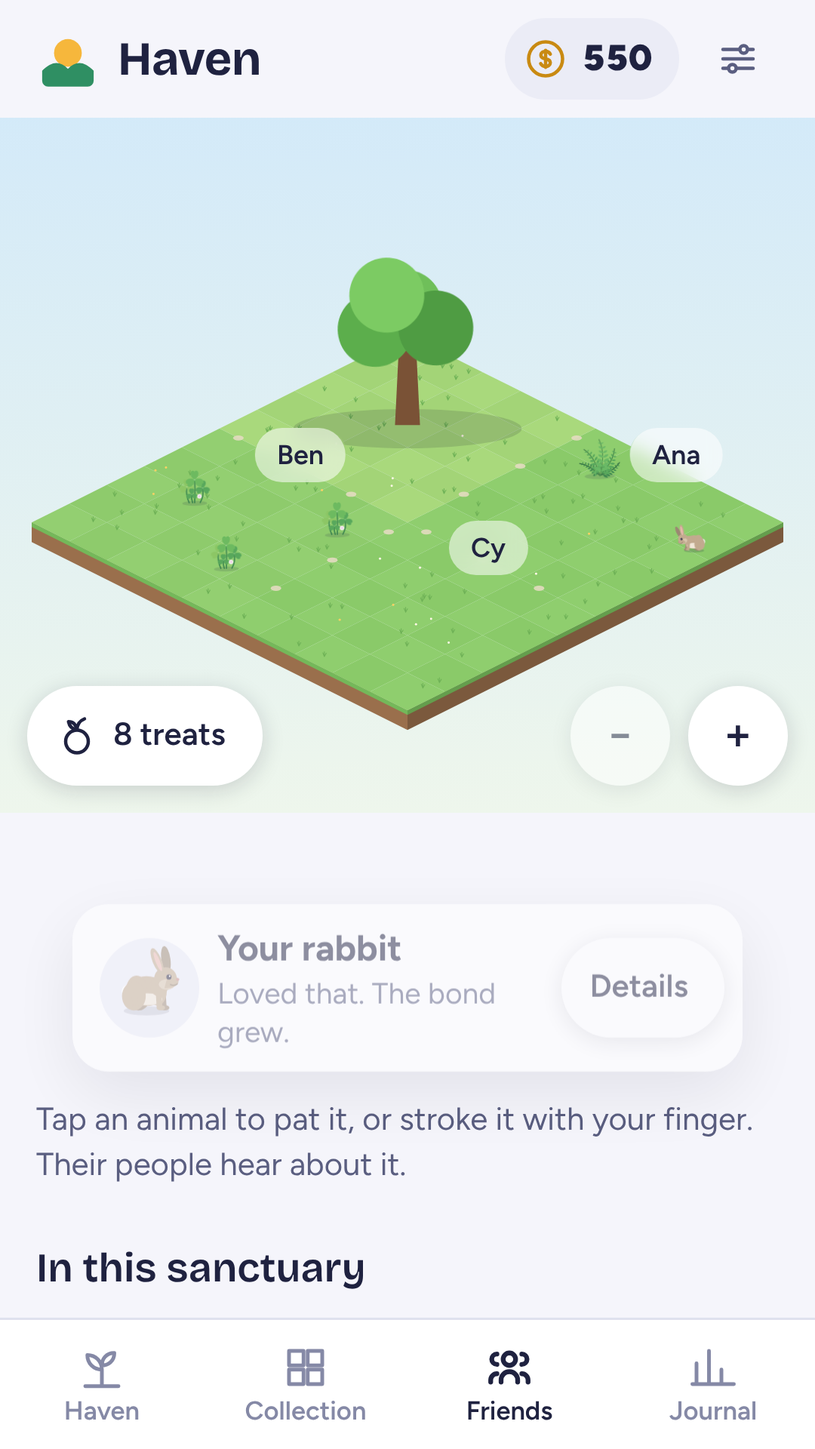
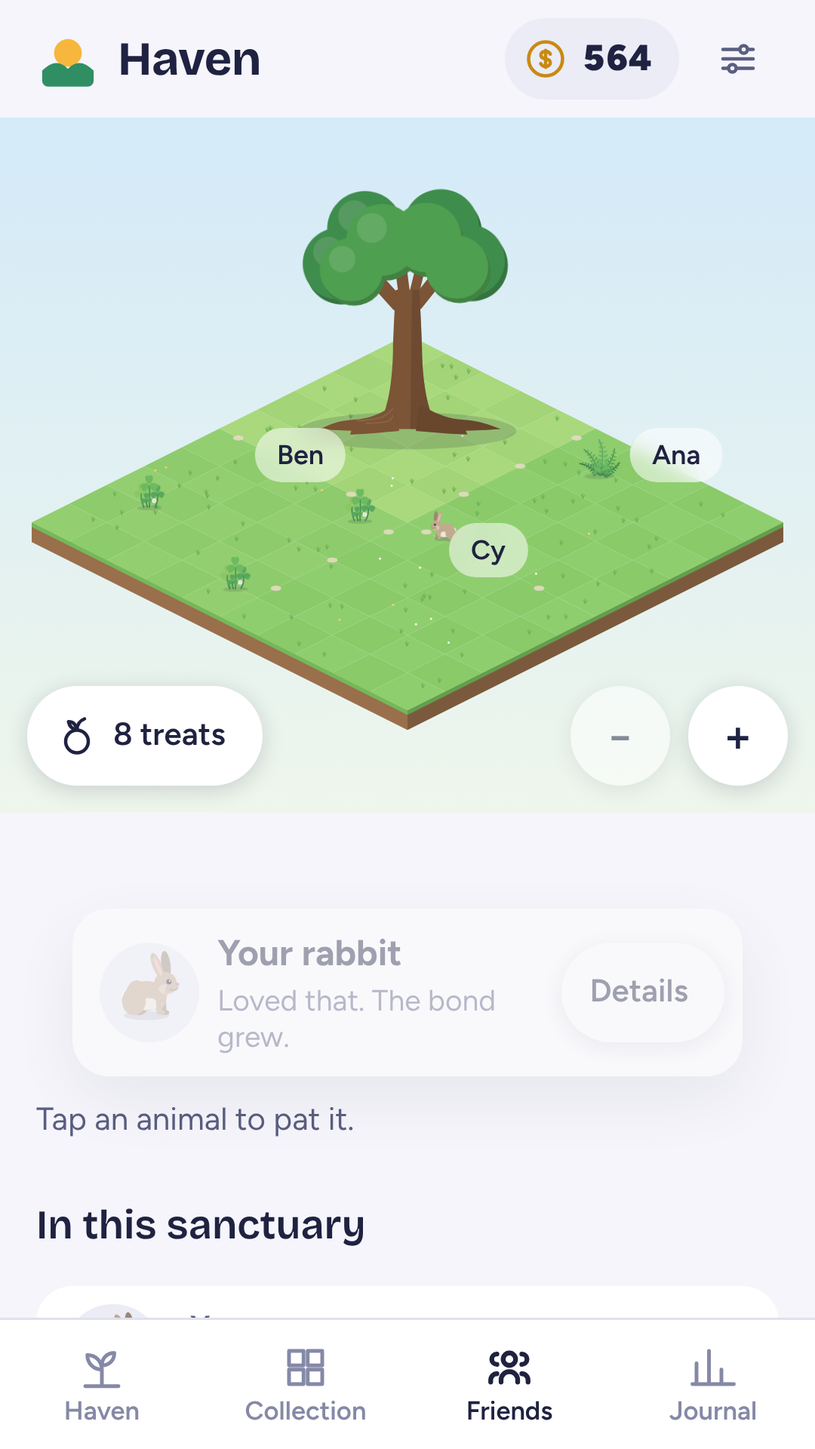
A grander great tree, closed source, docs
- The great tree is drawn anew: a trunk that flares into roots running over the ground, boughs,
  a three-layer shaded crown, a knot hole and mushrooms when old, blossom, drifting petals and
  lanterns in bloom; a slender sapling before that
- Closed source: all-rights-reserved LICENSE, private package, a copyright line on the bundle,
  no source link in Settings, the privacy policy no longer says open source
- PLAY.md: what changes on GitHub when the repository goes private, and the choice to make first
- README, PRODUCT, ARCHITECTURE and VALIDATION describe finished campfires, the strict fire,
  the chimes; Google Play screenshots retaken

Claude-Session: https://claude.ai/code/session_01U2vW6AhbJutTokDW5NJwig

diff --git a/src/scene.js b/src/scene.js
@@ -2,6 +2,7 @@
 // Both are SVG text built from data, so they can be drawn for you, for a friend, or for a test.
 import { traitsOf } from './world.js';
 import { drawing, tone } from './art.js';
+import { n, E, C, P, L } from './shapes.js';
 import { speciesById, artOf } from './catalog.js';
 import { escapeHTML } from './core.js';
 
@@ -257,17 +258,67 @@ export const treeStageName = stage => TREE_STAGES[Math.max(0, Math.min(5, stage 
 /** The great tree at one of its six stages, from a seed to full bloom. */
 export function greatTreeSVG(stage = 0) {
   stage = Math.max(0, Math.min(5, stage | 0));
-  const leaf = ['#6fbf5a', '#5cae4c', '#4f9c43', '#7ccb63'], ground = '<ellipse cx="100" cy="226" rx="64" ry="11" fill="#14152b" opacity=".14"/>';
-  if (stage === 0) return `<svg viewBox="0 0 200 240" aria-hidden="true">${ground}<ellipse cx="100" cy="222" rx="26" ry="7" fill="#9c6b44"/><ellipse cx="100" cy="219" rx="9" ry="5" fill="#c58b55"/><path d="M100 218c0-6 2-10 6-12" stroke="#5cae4c" stroke-width="3" fill="none" stroke-linecap="round"/></svg>`;
-  if (stage === 1) return `<svg viewBox="0 0 200 240" aria-hidden="true">${ground}<ellipse cx="100" cy="222" rx="24" ry="6" fill="#9c6b44"/><path d="M100 222V186" stroke="#7a5236" stroke-width="5" stroke-linecap="round"/><path d="M100 196c-14-2-22-10-24-20 13 0 22 7 24 20Z" fill="${leaf[0]}"/><path d="M100 188c13-4 19-13 20-24-12 2-19 10-20 24Z" fill="${leaf[1]}"/></svg>`;
-  // From a sapling on: a trunk that thickens and a crown of leaf clusters that widens with each stage.
-  const k = [0, 0, 0.5, 0.7, 0.88, 1][stage], trunkTop = 222 - 150 * k, girth = 6 + 16 * k;
-  const crown = [[0, -38], [-34, -14], [34, -14], [-20, -52], [22, -54], [0, -70], [-46, -40], [46, -40], [0, -8]];
-  const blobs = crown.slice(0, stage === 2 ? 4 : stage === 3 ? 6 : 9).map(([dx, dy], i) => `<circle cx="${(100 + dx * k).toFixed(1)}" cy="${(trunkTop + 30 + dy * k).toFixed(1)}" r="${(30 * k + 6).toFixed(1)}" fill="${leaf[i % 4]}"/>`).join('');
-  const roots = k > 0.6 ? `<path d="M${100 - girth} 222c-10 2-18 4-24 3M${100 + girth} 222c10 2 18 4 24 3" stroke="#6b4630" stroke-width="${(girth / 2.4).toFixed(1)}" fill="none" stroke-linecap="round"/>` : '';
-  const bloom = stage === 5 ? Array.from({ length: 22 }, (_, i) => { const a = i * 2.4, r = 14 + (i * 37) % 56; return `<circle cx="${(100 + Math.cos(a) * r * k * 1.15).toFixed(1)}" cy="${(trunkTop + 18 + Math.sin(a) * r * k * 0.8).toFixed(1)}" r="${i % 3 ? 4.2 : 5.4}" fill="${i % 4 ? '#f7a8c4' : '#ffd36a'}" stroke="#fff" stroke-width="1"/>`; }).join('') : '';
-  const lanterns = stage === 5 ? `<g class="lanterns"><circle cx="${100 - 40 * k}" cy="${trunkTop + 62}" r="5" fill="#ffd36a"/><circle cx="${100 + 44 * k}" cy="${trunkTop + 58}" r="5" fill="#ffd36a"/></g>` : '';
-  return `<svg viewBox="0 0 200 240" aria-hidden="true">${ground}${roots}<path d="M${100 - girth / 2} 224L${100 - girth / 3} ${trunkTop + 30}h${(girth * 2) / 3}L${100 + girth / 2} 224Z" fill="#7a5236"/><g class="crown">${blobs}${bloom}</g>${lanterns}</svg>`;
+  const base = 224, cx = 100, BARK = '#7c5436', DARK = tone(BARK, -0.25), LIGHT = tone(BARK, 0.16);
+  const ground = rx => E(cx, base + 2, rx, rx * 0.17, '#1f2240', ' opacity=".16"');
+  if (stage === 0) {
+    // A mound of fresh earth with a seedling just through it.
+    return `<svg viewBox="0 0 200 240" aria-hidden="true">${ground(30)}${E(cx, base - 1, 24, 7, '#8f6440')}${E(cx - 4, base - 3, 12, 3.5, '#a77950')}
+${L(`M${cx} ${base - 4}c0-6 1-10 4-13`, '#4f9a54', 2.6)}${P(`M${cx + 4} ${base - 17}c-7-1-11-5-12-10 7 0 11 4 12 10Z`, '#6fbf5a')}${P(`M${cx + 4} ${base - 17}c6-3 9-8 9-13-6 1-9 6-9 13Z`, '#5cae4c')}</svg>`;
+  }
+  // From a sapling on, everything scales with k: a wider stance, a taller trunk and a broader crown.
+  const k = [0, 0.3, 0.5, 0.7, 0.88, 1][stage];
+  const girth = stage === 1 ? 5 : 7 + 40 * k, top = base - (34 + 86 * k), wide = 52 + 132 * k, high = wide * 0.6;
+  const crownY = top - high * 0.28;
+
+  // The trunk flares at the foot, and separate roots snake out over the ground from the flare.
+  const half = girth / 2, waist = half * 0.6, flare = stage >= 2 ? half * (1.25 + 0.35 * k) : half, SHADE = tone(BARK, -0.16);
+  // Each root drops steeply off the flare, then runs low along the ground and tapers to a point.
+  const root = (side, len, thick, down = 0) => {
+    const x0 = cx + side * half * 0.5, tip = cx + side * (flare + len), mid = cx + side * (flare + len * 0.35);
+    return P(`M${n(x0)} ${n(base - thick * 1.8)}C${n(x0 + side * len * 0.3)} ${n(base - thick * 1.1)} ${n(x0 + side * len * 0.45)} ${n(base - thick * 0.7)} ${n(mid)} ${n(base - thick * 0.62)}`
+      + `S${n(tip - side * len * 0.18)} ${n(base - thick * 0.2 + down * 0.5)} ${n(tip)} ${n(base + 1 + down)}Q${n(cx + side * (flare + len * 0.45))} ${n(base + 2.4 + down * 0.5)} ${n(x0 - side * 2)} ${n(base + 2)}Z`, side > 0 ? SHADE : BARK)
+      + (side < 0 ? L(`M${n(x0 - 1.5)} ${n(base - thick * 1.5)}C${n(x0 - len * 0.18)} ${n(base - thick * 0.8)} ${n(x0 - len * 0.3)} ${n(base - thick * 0.62)} ${n(mid + len * 0.05)} ${n(base - thick * 0.52)}`, LIGHT, n(0.6 + 0.6 * k), ' opacity=".55"') : '');
+  };
+  const roots = stage < 2 ? '' : root(-1, 14 + 32 * k, 4 + 6 * k) + root(1, 16 + 34 * k, 4 + 6 * k)
+    + root(-1, 6 + 14 * k, 2.6 + 3.4 * k, 3) + root(1, 7 + 15 * k, 2.6 + 3.4 * k, 3);
+
+  const foot = base - 30 - 30 * k;
+  const trunk = P(`M${n(cx - flare)} ${n(base + 1)}C${n(cx - half * 0.8)} ${n(base - 4)} ${n(cx - waist)} ${n(base - 18 - 22 * k)} ${n(cx - waist)} ${n(foot)}`
+      + `C${n(cx - waist)} ${n(top + 30)} ${n(cx - waist * 0.9)} ${n(top + 10)} ${n(cx - waist * 0.8)} ${n(top)}H${n(cx + waist * 0.8)}`
+      + `C${n(cx + waist * 0.9)} ${n(top + 10)} ${n(cx + waist)} ${n(top + 30)} ${n(cx + waist)} ${n(foot)}C${n(cx + waist)} ${n(base - 18 - 22 * k)} ${n(cx + half * 0.8)} ${n(base - 4)} ${n(cx + flare)} ${n(base + 1)}Z`, BARK)
+    + P(`M${n(cx + waist * 0.2)} ${n(base + 1)}C${n(cx + waist * 0.25)} ${n(base - 30)} ${n(cx + waist * 0.3)} ${n(top + 18)} ${n(cx + waist * 0.32)} ${n(top)}H${n(cx + waist * 0.8)}`
+      + `C${n(cx + waist * 0.9)} ${n(top + 10)} ${n(cx + waist)} ${n(top + 30)} ${n(cx + waist)} ${n(foot)}C${n(cx + waist)} ${n(base - 18 - 22 * k)} ${n(cx + half * 0.8)} ${n(base - 4)} ${n(cx + flare)} ${n(base + 1)}Z`, DARK, ' opacity=".5"')
+    + (stage >= 3 ? L(`M${n(cx - waist * 0.5)} ${n(base - 10)}c2 -${n(30 * k)} -2 -${n(55 * k)} 1 -${n(80 * k)}`, DARK, n(1 + k), ' opacity=".45"')
+      + L(`M${n(cx - waist * 0.05)} ${n(base - 16)}c-2 -${n(24 * k)} 2 -${n(40 * k)} 0 -${n(62 * k)}`, LIGHT, n(0.8 + k * 0.8), ' opacity=".5"') : '')
+    + (stage >= 4 ? E(cx - waist * 0.25, base - 50 * k, 3.8 * k, 5.4 * k, DARK) + E(cx - waist * 0.25, base - 50 * k + 0.8, 2.6 * k, 4 * k, '#3a2618') : '');
+  const bough = (dx, dy, w) => L(`M${n(cx + dx * 0.15)} ${n(top + 8)}Q${n(cx + dx * 0.55)} ${n(top - dy * 0.3)} ${n(cx + dx)} ${n(top - dy)}`, BARK, n(w));
+  const boughs = stage < 2 ? '' : bough(-wide * 0.3, high * 0.36, girth * 0.3) + bough(wide * 0.28, high * 0.4, girth * 0.28) + bough(-wide * 0.06, high * 0.6, girth * 0.24) + bough(wide * 0.12, high * 0.62, girth * 0.2);
+
+  // The crown in three layers, back to front, each shaded below and lit above.
+  const layer = (blobs, fill) => {
+    const at = ([x, y, r]) => [cx + x * wide / 2, crownY + y * high / 2, r * wide / 2];
+    const list = blobs.map(at);
+    return list.map(([x, y, r]) => C(x + r * 0.08, y + r * 0.14, r, tone(fill, -0.18))).join('') + list.map(([x, y, r]) => C(x, y, r, fill)).join('')
+      + list.filter((_, i) => i % 2 === 0).map(([x, y, r]) => C(x - r * 0.28, y - r * 0.34, r * 0.42, tone(fill, 0.2), ' opacity=".6"')).join('');
+  };
+  const BACK = [[-0.62, 0.12, 0.34], [0.62, 0.12, 0.34], [-0.36, -0.42, 0.36], [0.36, -0.42, 0.36], [0, -0.66, 0.36], [-0.9, 0.42, 0.22], [0.9, 0.42, 0.22]];
+  const MID = [[-0.5, 0.22, 0.3], [0.5, 0.22, 0.3], [-0.2, -0.24, 0.34], [0.22, -0.26, 0.33], [0, 0.18, 0.32], [-0.8, 0.06, 0.22], [0.8, 0.06, 0.22]];
+  const FRONT = [[-0.3, 0.46, 0.24], [0.32, 0.46, 0.24], [0, -0.02, 0.26], [-0.62, 0.46, 0.18], [0.64, 0.44, 0.18]];
+  const count = stage === 1 ? 0 : stage === 2 ? 4 : stage === 3 ? 6 : 7;
+  const crown = stage === 1
+    ? P(`M${cx} ${n(top + 16)}c-17 -2 -27 -12 -29 -24 16 0 27 9 29 24Z`, '#6fbf5a') + P(`M${cx} ${n(top + 8)}c16 -5 23 -16 24 -29 -15 2 -23 12 -24 29Z`, '#5cae4c') + P(`M${cx} ${n(top + 3)}c-4 -10 -1 -17 4 -22 4 7 1 15 -4 22Z`, '#7ccb63')
+    : layer(BACK.slice(0, count), '#3f8d4c') + layer(MID.slice(0, count), '#4f9f50') + (stage >= 3 ? layer(FRONT.slice(0, stage === 3 ? 3 : 5), '#62b357') : '');
+
+  // In full bloom: blossom over the crown, a few petals drifting down, and lanterns in the boughs.
+  const flower = (x, y, c) => [0, 72, 144, 216, 288].map(a => C(x + Math.cos(a * Math.PI / 180) * 2.2, y + Math.sin(a * Math.PI / 180) * 2.2, 2, c)).join('') + C(x, y, 1.3, '#ffd36a');
+  const bloom = stage === 5 ? Array.from({ length: 26 }, (_, i) => { const a = i * 2.39996, r = Math.sqrt((i + 0.5) / 26) * 0.92; return flower(cx + Math.cos(a) * r * wide * 0.46, crownY + Math.sin(a) * r * high * 0.46, i % 3 ? '#f7b3cc' : '#fff1f5'); }).join('')
+    + [[-0.55, 0.9], [0.4, 1.05], [0.75, 0.7], [-0.2, 1.2]].map(([x, y], i) => E(cx + x * wide / 2, crownY + y * high / 2 + 20, 2.4, 1.4, '#f7b3cc', ` transform="rotate(${i * 50 - 40} ${n(cx + x * wide / 2)} ${n(crownY + y * high / 2 + 20)})"`)).join('') : '';
+  const lantern = (x, y, len) => L(`M${n(x)} ${n(y)}v${len}`, '#5a4030', 0.8) + P(`M${n(x - 3.2)} ${n(y + len + 1)}h6.4l-1 7.5h-4.4Z`, '#ffcf5a') + P(`M${n(x - 3.6)} ${n(y + len)}h7.2v1.4h-7.2Z`, '#7a4a2a');
+  const lanterns = stage === 5 ? `<g class="lanterns">${lantern(cx - wide * 0.3, top - high * 0.2, 10)}${lantern(cx + wide * 0.27, top - high * 0.22, 14)}${lantern(cx - wide * 0.05, top - high * 0.06, 8)}</g>` : '';
+  // Small things that gather round an old tree: mushrooms and flowers between the roots.
+  const shroom = (x, s) => P(`M${n(x - 1.2 * s)} ${base}v-${n(4 * s)}h${n(2.4 * s)}v${n(4 * s)}Z`, '#f3e6d4') + P(`M${n(x - 4 * s)} ${n(base - 4 * s)}a${n(4 * s)} ${n(3 * s)} 0 0 1 ${n(8 * s)} 0Z`, '#d9534f') + C(x - s, base - 5.6 * s, 0.7 * s, '#fff');
+  const undergrowth = stage >= 4 ? shroom(cx - girth * 0.9 - 6, 1) + shroom(cx + girth * 1.1 + 4, 1.2) + (stage === 5 ? shroom(cx + girth * 0.5 + 22, 0.8) : '') : '';
+  return `<svg viewBox="0 0 200 240" aria-hidden="true">${ground(26 + 70 * k)}${boughs}${trunk}${roots}<g class="crown">${crown}${bloom}</g>${lanterns}${undergrowth}</svg>`;
 }
 
 /** Everything standing in a store's haven, as things for worldHTML and the simulation. */

diff --git a/src/views/sanctuary.js b/src/views/sanctuary.js
@@ -146,8 +146,8 @@ function petted(app, id, done = null) {
   if (!done) heartAt(ui.world, id, 0);
   if (!what) return;
   if (app.store.state.settings.haptics && !done) haptic('light');
-  if (what === 'woke') { showChip(app, id, 'Woke up. Left alone, it goes back to sleep.'); return; }
-  if (a.mine) { const r = a.item ? app.store.pet(a.item) : { ok: false }; showChip(app, id, r.ok && r.counted ? 'Loved that. The bond grew.' : 'Loved that.'); return; }
+  if (what === 'woke') { showChip(app, id, 'Woke up.'); return; }
+  if (a.mine) { if (a.item) app.store.pet(a.item); showChip(app, id, 'Loved that.'); return; }
   showChip(app, id, `Loved that. ${a.ownerName} will hear about it.`);
   if (a.item) app.social.sanctuaryCare(ui.id, a.owner, a.item, a.species, 'pet').catch(() => {});
 }

diff --git a/public/privacy.html b/public/privacy.html
@@ -16,7 +16,7 @@
 <p class="meta">Last updated 18 November 2026. Applies to the Haven apps for Android and iPhone and the website at shira421.github.io/haven.</p>
 
 <h2>Who runs Haven</h2>
-<p>Haven is made and run by one developer, shira421, as an open-source project. The code is on <a href="https://github.com/shira421/haven">GitHub</a>. To ask about your data, use the contact email on Haven's Google Play page.</p>
+<p>Haven is made and run by one developer, shira421. To ask about your data, use the contact email on Haven's Google Play page.</p>
 
 <h2>What Haven keeps</h2>
 <p>You need an account to use Haven. The server keeps:</p>

diff --git a/ARCHITECTURE.md b/ARCHITECTURE.md
@@ -38,7 +38,7 @@ The same `dist/` folder is served by GitHub Pages and packed into both phone app
 - **Drawing.** `art.js` returns SVG text for each species, built from a small set of shape helpers, so there are no image files. `scene.js` lays sprites on the land, back to front. Screens are template strings set as `innerHTML`, with every value escaped through `e()`. Clicks are routed by `data-action`.
 - **Offline.** `public/sw.js` keeps the app's own files. Sessions finished offline are sent to the server later.
 - **One haven on several devices.** `sync.js` keeps every device of a profile in step. The server holds one copy of the haven with a revision number. Each device remembers the last copy it agreed on (the base, under `haven-sync`). On opening, on coming back to the front, a few seconds after any change, and whenever the server says another device saved, the device fetches the server's copy and, if it is newer, joins it with its own in a three-way merge against the base: whatever either side changed since the base wins, so a move, a release, a purchase or a deleted session on one device is not undone by the other. Counters (coins, treats, feeds) add both sides' changes; an achievement, a level or a bond level reached on both is paid once. The device then saves the result with the revision it was based on; if another device saved first, the server refuses (409) and the device joins again. A running session stays with the device it runs on.
-- **Notifications.** `notices.js` schedules the streak and hunger reminders from the state each time it changes, and tells the phone which server to check for news. `timer.js` schedules the come-back notification when Haven goes to the background during a session; the native side withdraws it if the phone locked.
+- **Notifications.** `notices.js` schedules the streak and hunger reminders from the state each time it changes, and tells the phone which server to check for news. `timer.js` schedules the come-back notification when Haven goes to the background during a session, and a `lost` notification for the moment the allowance runs out; the native side withdraws both if the phone locked. A finished session (`session`, `break`) and a lost one (`lost`, `lost-*`) have their own sounds: `chime.wav` and `wilt.wav`, made by `scripts/sounds.mjs` from the notes `sound.js` plays.
 - **Sanctuaries.** `scene.js` lays members' havens out as plots on a near-square grid (`sanctuaryLayout`) and draws them as one land (`sanctuaryHTML`). `world.js` takes a land made of plots: animals are kept off the outer edges only, so they walk from one plot into the next. `views/sanctuary.js` fetches, lays out and warms up the simulation behind a loading screen, then runs it with the same painter as the home screen.
 - **Breeds.** What an item is drawn as is its species, or species and breed (`dog:corgi`, see `artOf`). Old ids are mapped (`RENAMED`: a `shiba` is a `dog` of the shiba breed).
 
@@ -53,7 +53,7 @@ Why one object: every friend request, presence change and room touches several p
 - **Tokens.** Every call sends the token as a bearer header. There are no cookies, so any origin may call the API (`Access-Control-Allow-Origin: *`) without cross-site risk.
 - **Live connection.** The app asks for a one-time ticket (30 s) over HTTPS, then opens `wss://…/api/live?ticket=…`. The long-lived token never appears in a URL. The server pushes small messages (`presence`, `request`, `accepted`, `inbox`, `room`, `feed`, `friends`, `state`, `sanctuary`, `haven`); everything the app sends goes over HTTPS. If the socket drops, the app reconnects with backoff and refetches.
 - **Sessions.** The server stamps the start with its own clock and only accepts "finished" once the planned time has passed (30 s tolerance). Sessions done offline can be added for 7 days if they do not overlap others. This keeps the board honest among friends; it is not anti-cheat for strangers.
-- **Campfires** (the `rooms` table). The host's start sets one start time 5 s ahead on the server's clock. Each app shifts it by its measured clock offset, so everyone counts down together. At a "together" campfire, one person leaving marks every session in it failed and pushes that to the others.
+- **Campfires** (the `rooms` table). The host's start sets one start time 5 s ahead on the server's clock. Each app shifts it by its measured clock offset, so everyone counts down together. At a "together" campfire, one person leaving marks every session in it failed, pushes that to the others and leaves each a `fire-out` inbox item, so a phone with Haven closed hears it through its background check; `POST /api/session/end` says `strict: true` for a finished one, which pays 1.2× coins (`STRICT_RATE`). A campfire that is over stays each member's (`currentRoom` returns `done` and `failed` rooms too) until they leave it, which sets `members.gone`; lighting or joining another does the same.
 - **Limits.** Each sensitive route is rate-limited per person or per network address (five new accounts an hour per address, one cheer a minute per friend, and so on). Inputs are validated and sized. Old rows are cleaned hourly.
 - **Sanctuaries.** Two tables, `sanctuaries` and `keepers`. Only members can read a sanctuary, and reading it returns each member's public card (the same layout friends see on a visit). Joining is by code or by accepting an invitation from a friend. A change to a member's card is pushed to everyone who shares a sanctuary with them.
 - **The great tree, care and pals.** The tree is the sanctuary's focused minutes since Monday 00:00 UTC (`weekStart`), against 120 min per haven (at least 240); the first time it blooms in a week is kept in `blooms` and everyone is told. `POST /api/sanctuaries/care` sends a treat or pat note to an animal's owner (pats at most one per 30 min per pair), and `POST /api/sanctuaries/pal` records two animals from different havens that met (`pals`, keyed `owner:item:species`). A campfire lit for a sanctuary carries its id (`rooms.sid`) and shows on the sanctuary for every member to join. Inbox items reach every device of a person, so each effect is safe to apply twice: a friend's treat only sets when the animal last ate.
@@ -78,7 +78,7 @@ Why one object: every friend request, presence change and room touches several p
 Both show the bundled `dist/` from a private origin (`haven://app/` on iOS, `https://appassets.androidplatform.net/assets/` on Android) and expose one bridge (`havenDevice` / `HavenNative`) with these actions: `notifyPermission`, `schedule`, `notify`, `cancel`, `reminder`, `keepAwake`, `haptic`, `share`, `away`, `account`, `openSettings`, `lastCrash`.
 
 - **iOS** (`ios/`, generated by XcodeGen): `AwayTracker` notes each move to the background and whether a screen-lock notification arrived with it, and withdraws a pending come-back notification when the phone locks. Notifications use `UNUserNotificationCenter`. `NewsChecker` registers a background refresh task (`com.shira421.haven.news`) that checks `GET /api/news`; the sign-in token for it is kept in the Keychain.
-- **Android** (`android/`): `onStop` records whether the screen was off or the keyguard up, and cancels the come-back notification if so. `Notifier` posts alarms as notifications and restores the daily reminder after a restart. Alarms are exact (`USE_EXACT_ALARM`), so a come-back warning 10 s away is not held back by Android. If the page's process is stopped, `onRenderProcessGone` reloads it rather than letting the app close, and an uncaught exception is kept to report on the next start. `Inbox` is a `JobService` run about every 15 minutes with a connection, which checks `GET /api/news` while Haven is not on screen.
+- **Android** (`android/`): `onStop` records whether the screen was off or the keyguard up, and cancels the come-back notification if so. `Notifier` posts alarms as notifications and restores the daily reminder after a restart. It has three channels: reminders and friends (default sound), session finished (`chime`) and session lost (`wilt`). When a `lost` alarm fires for a session the server knows, it posts `POST /api/session/end` as failed at once, so a strict campfire goes out for the others then rather than when Haven is opened again. Alarms are exact (`USE_EXACT_ALARM`), so a come-back warning 10 s away is not held back by Android. If the page's process is stopped, `onRenderProcessGone` reloads it rather than letting the app close, and an uncaught exception is kept to report on the next start. `Inbox` is a `JobService` run about every 15 minutes with a connection, which checks `GET /api/news` while Haven is not on screen.
 
 ## Finding the server
 

diff --git a/PRODUCT.md b/PRODUCT.md
@@ -19,7 +19,7 @@ People who study or work in focused blocks and want a reason to stay off their p
 | Come back | A third of the way through the allowance (10 s of 30 s), a notification asks you to come back before the session is lost. Not sent when the phone was only locked. |
 | Lock is not leaving | The screen may turn off during a session, as it normally would. "Keep the screen on" is off unless you turn it on. The apps tell a locked phone from a switched app themselves. A phone's browser is told only "hidden" either way, and a locked screen must never cost a session, so it judges on return from what the leaving left behind and counts only time plainly spent in another app: time the phone slept never counts (the browser's monotonic clock stops in sleep), a swipe to another app is seen in the touch it cancels, and on Chrome for Android Haven can be allowed to know when the screen locks (Idle Detection). Anything it cannot tell is taken as a locked screen. Settings shows how the last absence was judged. It sends a come-back notification only after a swipe out. On a computer's browser, leaving counts as before. |
 | Tags | Up to 12, each with a colour, shown in the journal. |
-| Sounds | Seven background sounds and a finishing chime, generated on the device. |
+| Sounds | Seven background sounds, a finishing chime and a falling chime for a lost session, generated on the device. The phone apps play the same two as notification sounds (`scripts/sounds.mjs` makes the files). |
 | Session survives a restart | A running session is stored and resumes, or is judged by how long Haven was closed. |
 
 ### The living haven
@@ -69,13 +69,13 @@ People who study or work in focused blocks and want a reason to stay off their p
 | Cheer and nudge | Delivered at once, or when the friend is next online. |
 | Gifts | Send a plant, animal or nature item you have unlocked. It arrives in their haven. |
 | Visit | See a friend's haven and totals. |
-| Campfire | Up to 8 people. Lit from Friends, or for a whole sanctuary at once. Start together on the server's clock. "The fire goes out for everyone" or "leaving costs only them". |
+| Campfire | Up to 8 people. Lit from Friends, or for a whole sanctuary at once. Start together on the server's clock. "The fire goes out for everyone" (one person leaving ends every session at once, each person is chimed, and finishing pays 1.2× coins) or "leaving costs only them". Once over, a campfire stays with each person, showing who finished, until they leave it; anyone can leave then, whoever lit it too. |
 | Board | You and your friends for today, week, month and all time. |
 | Activity | What you and your friends grew in the last 14 days. |
 | Recovery | On Android, if the system stops the page inside the app, Haven reloads it instead of closing. If Haven does close unexpectedly, it says so the next time it opens and offers the details to copy for a bug report. A running session is kept either way. |
 | Other devices | Signing in with the username and password (or Google) on another phone or computer brings the haven with it, behind a loading screen. One-time device codes are gone. Signing out saves the haven to the account and takes it off the device. After signing in every change on one device reaches the others: within seconds when they are open, otherwise when they open. Changes made on two devices at once are joined, not overwritten. |
 | Sanctuaries | Up to 8 havens, joined into one land around a clearing with a great tree, with stepping stones where two meet, and animals cross freely between them. The tree grows with the week's focus (2 h per haven, at least 4 h) and blooms; it starts again each Monday. Treats and pats for anyone's animals, and their people are told. Animals from different havens become pals. Each member can be added as a friend, reported or blocked. A loading screen while the land is fetched and joined. |
-| Notifications | Asked for once, at the first session. Settings shows when they are off, with a way to turn them on. Session finished, come back, friend requests and acceptances, campfire and sanctuary invitations, care from sanctuary members, pals and the tree in bloom, cheers, nudges and gifts, streak about to end (8 pm), hungry animals (by day), daily reminder. Each can be switched off in Settings. |
+| Notifications | Asked for once, at the first session. Settings shows when they are off, with a way to turn them on. Session finished, session lost (phone apps, at the moment it is lost), the campfire going out, come back, friend requests and acceptances, campfire and sanctuary invitations, care from sanctuary members, pals and the tree in bloom, cheers, nudges and gifts, streak about to end (8 pm), hungry animals (by day), daily reminder. Each can be switched off in Settings. |
 | Backup | To the server when signed in, or as a file. |
 
 ### How Forest's paid features map

diff --git a/README.md b/README.md
@@ -1,5 +1,7 @@
 # Haven (vibe coded)
 
+Private source. Copyright (c) 2026 shira421, all rights reserved (see [LICENSE](LICENSE)).
+
 A focus timer that grows a living sanctuary. Set a time, stay with it, and a plant grows, an animal moves in, or a pond gets dug in your haven. Leave early and it is lost. The animals are not ornaments: they wander, visit the plants and places they like, greet each other, sleep at night, and get hungry. Friends see each other focus live, sit round a campfire to focus together, share a sanctuary, cheer each other on and send gifts.
 
 One web app runs everywhere: in a browser, installed from the browser on iPhone and Android, and inside small native apps for iOS and Android. Everything is unlocked for everyone. There is nothing to buy.
@@ -25,10 +27,10 @@ One web app runs everywhere: in a browser, installed from the browser on iPhone 
 - **Arrange freely.** Drag anything anywhere on the land. The land grows with your level, from room for 25 things to room for 100.
 - **Friends, live.** Add people by code, username or invite link. See who is focusing right now and for how long. Cheer or nudge them. Visit their haven. Send them a plant, an animal or a piece of nature.
 - **Sanctuaries.** Make a group of up to eight havens and they are joined into one land around a clearing. Everyone's animals wander from haven to haven, and animals from different havens become pals. A great tree in the middle grows through the week as everyone focuses, and blooms when the group reaches its goal. Put treats down for anyone's animals and pat them; their people hear about it. Add anyone in it as a friend, or report or block them.
-- **Campfire.** Light a campfire and invite friends, or light one in a sanctuary for everyone there to join, and everyone starts at the same moment. Choose whether one person leaving puts the fire out for everyone or only costs them. Finishing together earns more coins.
+- **Campfire.** Light a campfire and invite friends, or light one in a sanctuary for everyone there to join, and everyone starts at the same moment. Choose whether one person leaving puts the fire out for everyone at once (finishing pays 1.2× coins) or only costs them. Finishing together earns more coins. A finished campfire stays, showing how everyone did, until each person leaves it.
 - **Board and activity.** Rank yourself and your friends for today, the week, the month or all time, and see what everyone grew.
 - **Journal.** Day, week, month and year views with a chart, time by tag, best hour, streaks, every session, and 29 achievements.
-- **Sounds.** Rain, stream, wind, night crickets, campfire, brown and white noise, made on the device, so they work offline.
+- **Sounds.** Rain, stream, wind, night crickets, campfire, brown and white noise, made on the device, so they work offline. A chime when a session finishes and a falling one when it is lost; in the phone apps these come as notifications too, with the screen off.
 - **Notifications.** A session finishing, a reminder to come back, friend requests and acceptances, invitations, cheers, nudges and gifts, a streak about to end, hungry animals, and a daily reminder. Each can be switched off. Haven asks for permission at your first session, and Settings says if notifications are off and takes you to turn them on. While Haven is closed, the apps check for friends' news about every 15 minutes.
 - **An account that goes with you.** Haven opens on a sign-in screen: create an account with a username and a password, or continue with Google where the server offers it. Sign in on any phone or computer and your haven is there. What you grow, move, feed, buy or let go on one device reaches the others within seconds when they are open, and on opening otherwise. Nothing is lost when both changed at once.
 - **Yours to keep.** Works offline. Light and dark. Backup file, server backup.

diff --git a/PLAY.md b/PLAY.md
@@ -146,3 +146,32 @@ Everything is unlocked by focusing. There is nothing to buy and no ads.
 3. Upload it by hand in Play Console, or from GitHub:
    - Once: in Google Cloud, make a service account and a JSON key for it. In Play Console, **Users and permissions**, invite the service account's email with permission to release to testing tracks (and production if you want). Put the JSON in the `PLAY_SERVICE_ACCOUNT_JSON` secret.
    - Then: Actions, **Google Play**, **Run workflow**, pick the track. After you approve it in the `google-play` environment, it builds from `main` and uploads a **draft** release, which you check and roll out in Play Console.
+
+## 9. Making the code private
+
+The code side is done: `LICENSE` now says all rights reserved, `package.json` is marked private, the web bundle carries a copyright line and is minified with no source maps, Settings no longer links to the source, and the privacy policy no longer calls Haven open source. Anyone can still save the JavaScript their browser runs. That is true of every website, and the server's code stays private either way.
+
+What changes on GitHub when the repository goes private, on the free plan:
+
+| | Public (now) | Private on GitHub Free | Private on GitHub Pro (US$4 a month) |
+| --- | --- | --- | --- |
+| The website on GitHub Pages (web app, privacy policy, account deletion page) | Works | **Stops** | Works, still public |
+| Branch protection and rulesets on `main` | Works | **Not enforced** | Works |
+| Secret scanning and push protection | Free | **Not available** | Not available |
+| Actions minutes | Unlimited | 2,000 a month | 3,000 a month |
+| `latest-build` downloads and the AltStore source | Anyone | Only you, signed in | Only you, signed in |
+
+macOS jobs count 10 times. One push to a pull request here uses about 100 minutes (the iOS build is about 80 of them), and a merge to `main` about 100 more, so a month of normal work fits in Pro's 3,000 but not always in Free's 2,000. When minutes run out, workflows stop until the next month unless you set a spending limit above $0.
+
+The privacy policy and deletion page must stay reachable, or Google Play will reject updates. So pick one before switching:
+
+1. **Simplest: GitHub Pro.** Upgrade at github.com/settings/billing. Nothing else changes: the same addresses, the same workflows.
+2. **Free: move the website.** For example to Cloudflare Pages, which you already use for the server. The address changes, so the privacy policy and deletion links in Play Console, the privacy link in Settings and `SITE` in `src/social.js` all change with it. Ask Claude to do this one.
+
+Then switch:
+
+1. Settings, General, Danger Zone, **Change repository visibility**, Private.
+2. Check the next **Deploy web app and friends server** run still publishes the site, and open the privacy page.
+3. Under Settings, Actions, consider running the iOS job only on `main` to save minutes, and look at Billing, **Spending limit**.
+4. Insights, Forks: forks made while it was public stay public. Without a licence they give nobody the right to reuse the code, but they exist.
+5. The `latest-build` release stops being a public download. Android people get Haven from Google Play.

diff --git a/VALIDATION.md b/VALIDATION.md
@@ -41,6 +41,9 @@ For 1.3.0, a sweep of every screen and dialog at 320, 390, 768 and 1280 px in li
 - The privacy policy and account deletion page in light and dark; deleting an account on the page against the local server, with a wrong password refused first.
 - The release build: CI builds it with target API 36, checks it is not debuggable and that its version matches `package.json`. The Android 14 to 16 emulator runs use the new bridge (`addWebMessageListener`) and the new back handling.
 - Not yet tried: an upload to Google Play, and the release build on a real phone.
+- A campfire that is over: whoever lit it can leave while another member has not opened Haven since, the others see them go, and the late member still counts them when finishing (`tests/hub.test.mjs`). In Chrome, the finished campfire shows who finished and can be left.
+- A strict campfire going out: the other member is told live and gets a `fire-out` inbox item; the finished one pays 1.2× (`tests/core.test.mjs`, the browser test's 82 coins).
+- The chime and falling chime files are valid 22 kHz WAV files. Not yet heard on a real phone, and the lost-session report from Android's alarm has not run on an emulator.
 
 ## Checked on Android emulators on every pull request
 
